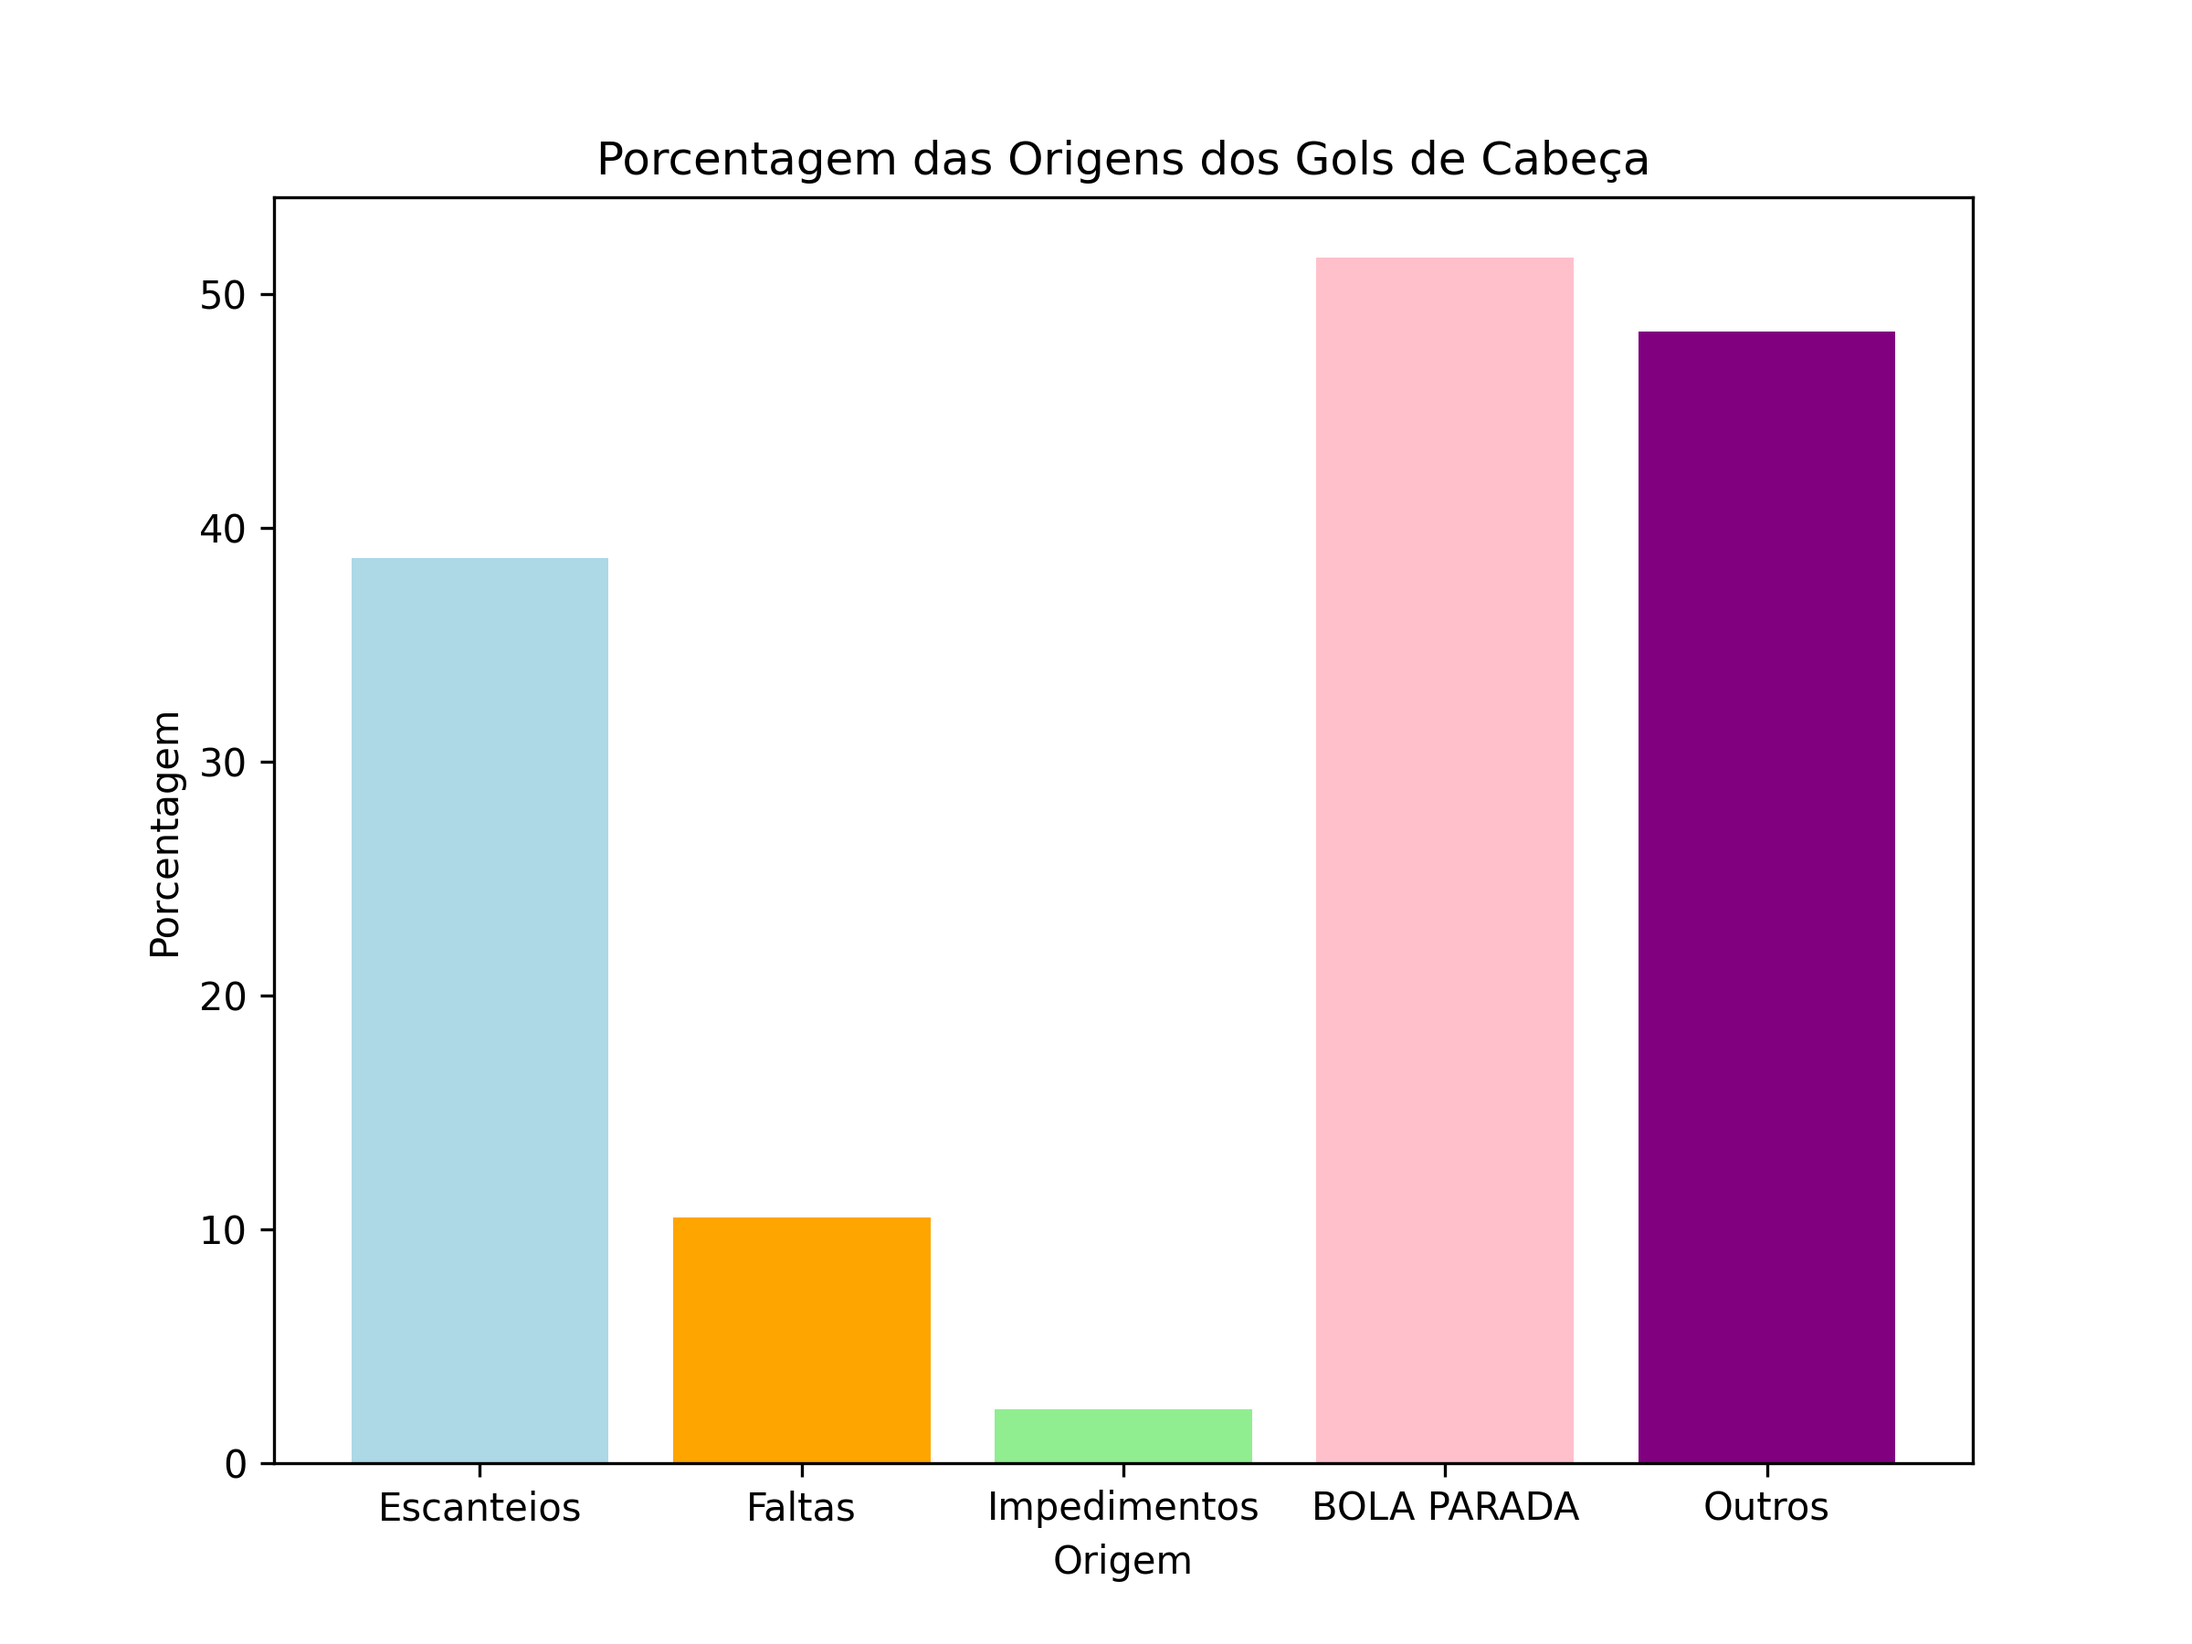
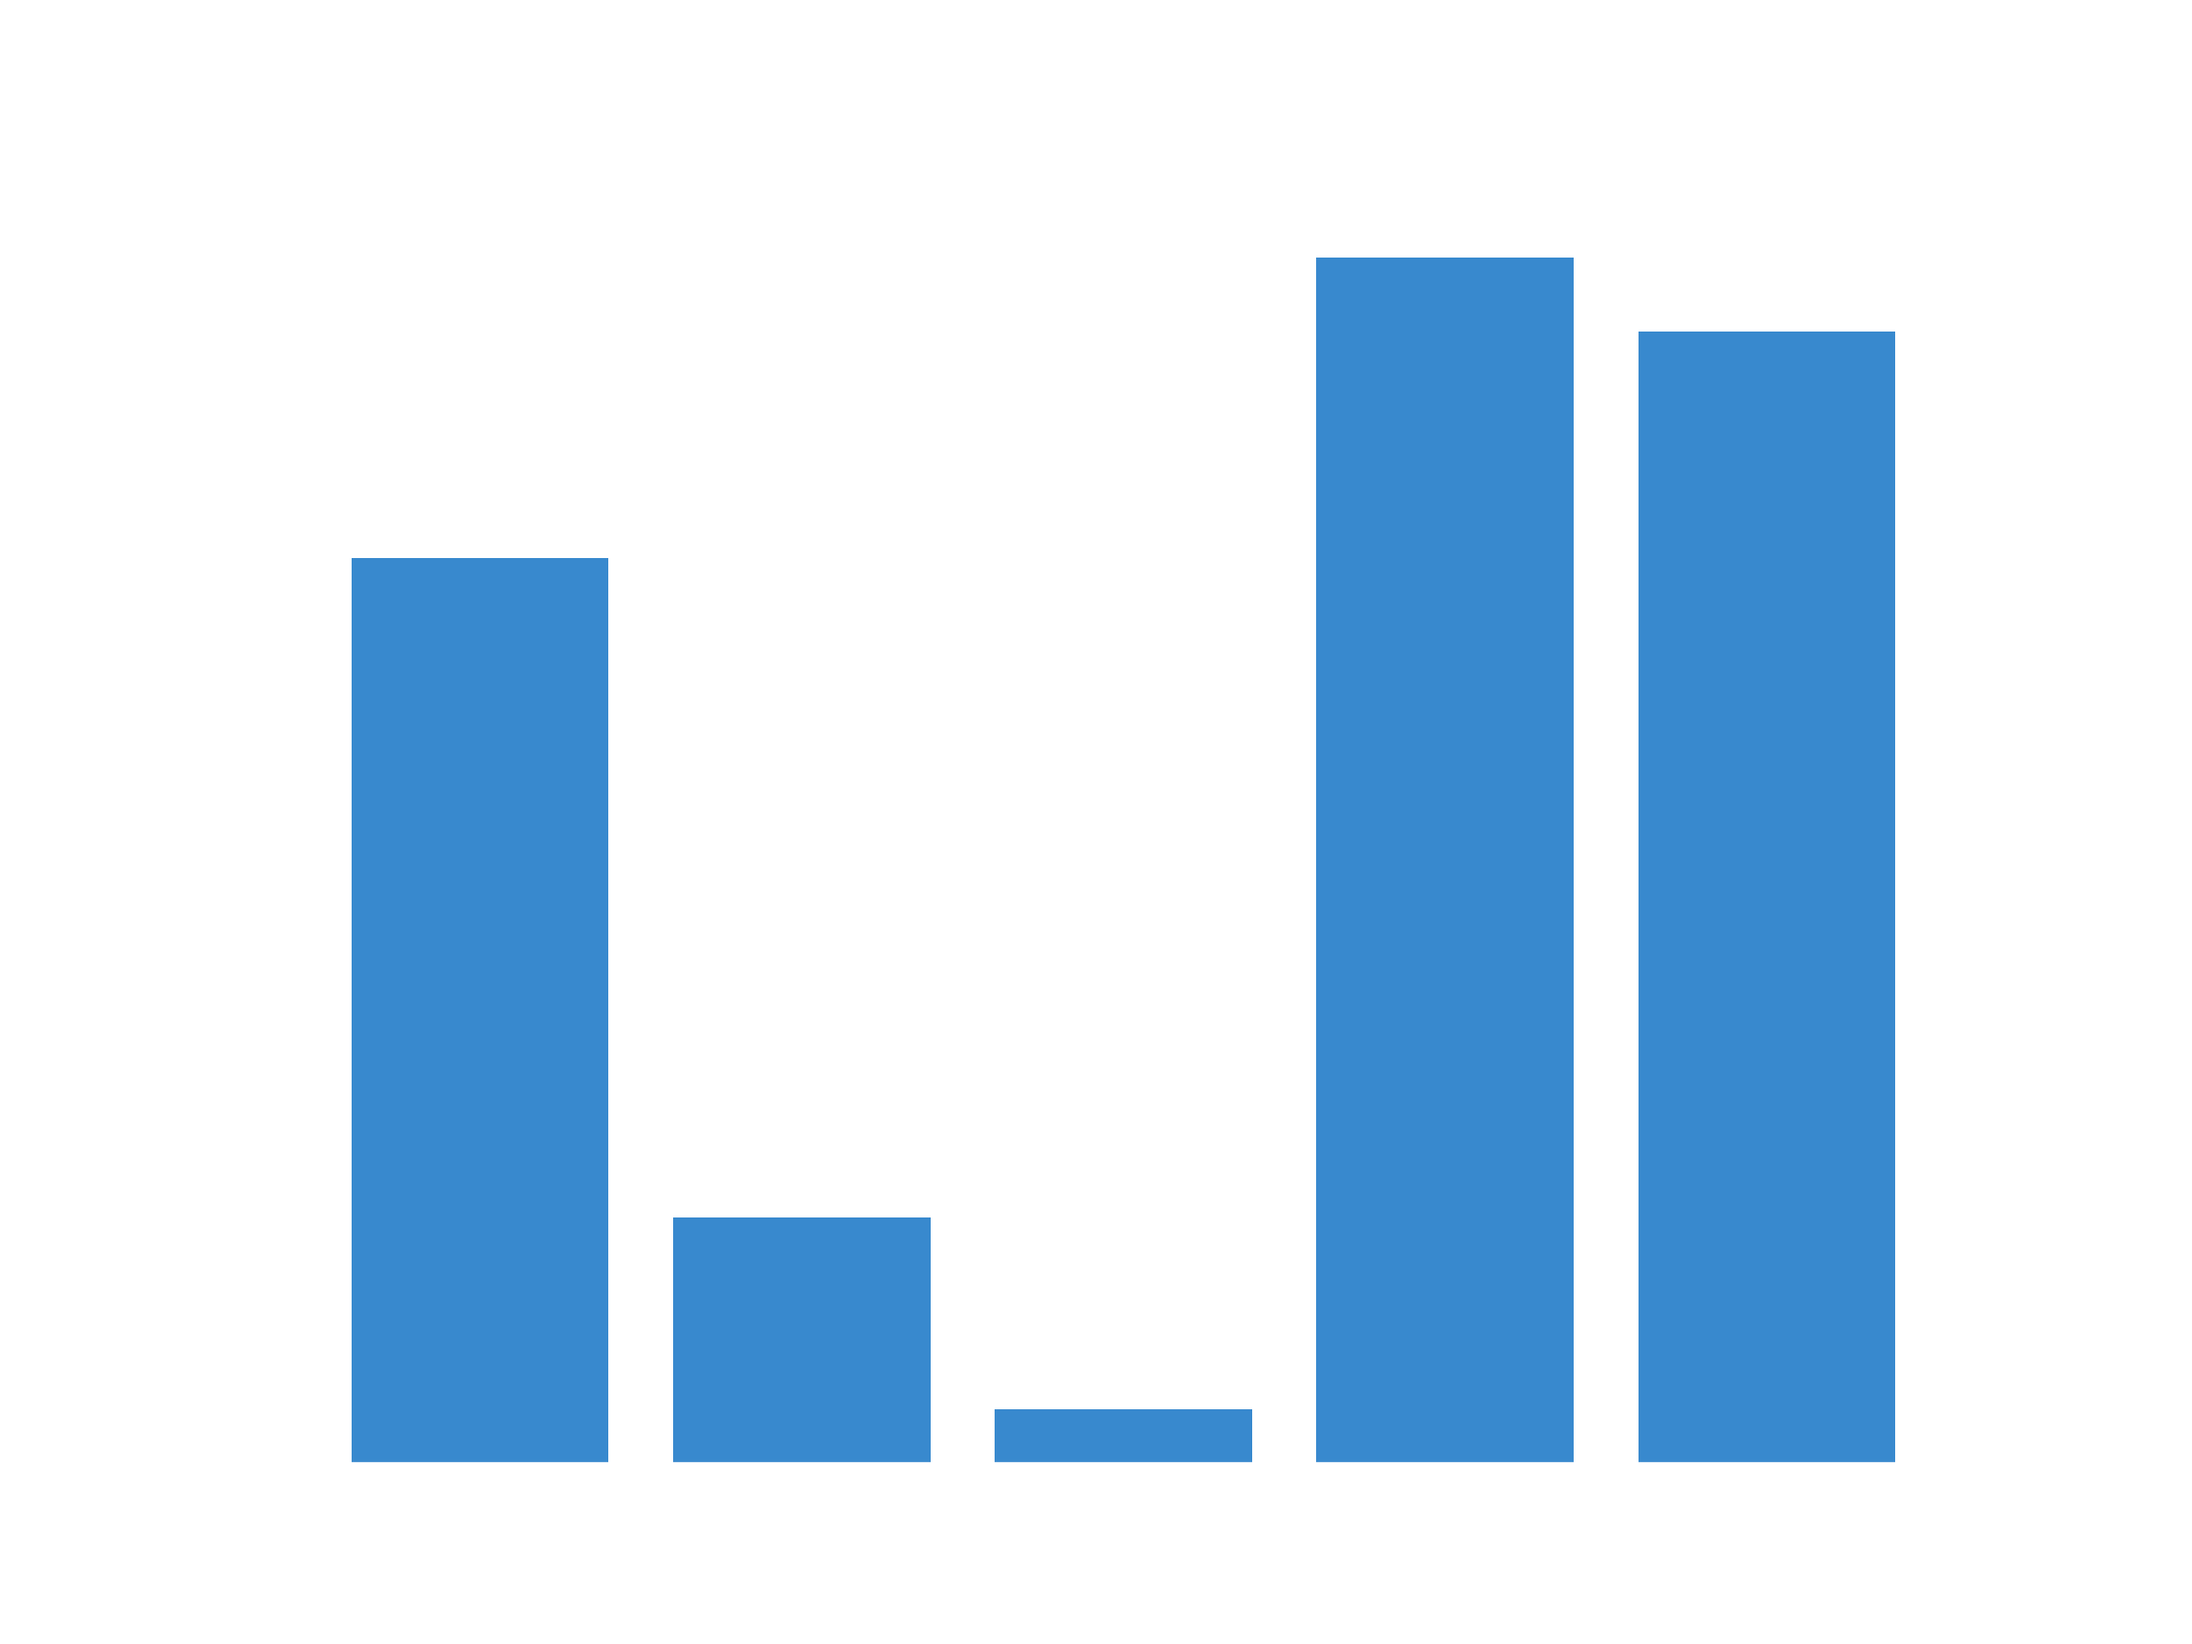
adding comments to test_head.py

diff --git a/tests/test_head.py b/tests/test_head.py
@@ -8,6 +8,7 @@ sys.path.append('../src')
 from head import (get_rows_with_previous, is_headed_goal, is_same_match,
                   origin_of_headed_goals)
 
+#Dataframes utilizados para os testesgi
 events_df = pd.DataFrame({
             'id_odsp': ['match1', 'match1', 'match1', 'match1', 'match2', 'match2',
                         'match2', 'match3', 'match3', 'match3'],
@@ -29,6 +30,8 @@ zero_headed_goals_df = pd.DataFrame({
 
 class TestGetRowsWithPrevious(unittest.TestCase):
     def test_get_rows_with_previous(self):
+        """Testa o funcionamento da função get_rows_with_previous.
+        """
         expected = pd.DataFrame({
             'id_odsp': ['match1', 'match1', 'match1', 'match2', 'match2', 'match3',
                         'match3'],
@@ -51,22 +54,33 @@ class TestGetRowsWithPrevious(unittest.TestCase):
         pd.testing.assert_frame_equal(result, expected)
 
     def test_invalid_input_df_type(self):
+        """Testa o funcionamento da função get_rows_with_previous ao receber um parâmetro
+        do tipo errado para o df.
+        """
         self.assertRaises(TypeError, get_rows_with_previous, 'events',
                           {'bodypart': 3})
         
     def test_invalid_condition_type(self):
+        """Testa o funcionamento da função get_rows_with_previous ao receber um parâmetro
+        do tipo errado para as condições.
+        """
         self.assertRaises(TypeError, get_rows_with_previous,
                           (events_df.copy(), 'bodypart'))
         self.assertRaises(TypeError, get_rows_with_previous,
                           (events_df.copy(), 3))
         
     def test_non_existing_columns(self):
+        """Testa o funcionamento da função get_rows_with_previous ao receber uma condição
+        relacionada a uma coluna que não existe.
+        """
         self.assertRaises(KeyError, get_rows_with_previous, events_df,
                           {'side': 1})
         
 
 class TestIsHeadedGoal(unittest.TestCase):
     def test_is_headed_goal(self):
+        """Testa o funcionamento da função is_headed_goal.
+        """
         expected = True
         result = is_headed_goal(events_df, 6)
         self.assertEqual(result, expected)
@@ -76,17 +90,28 @@ class TestIsHeadedGoal(unittest.TestCase):
         self.assertEqual(result, expected)
 
     def test_invalid_input_df_type(self):
+        """Testa o funcionamento da função is_headed_goal ao receber um parâmetro
+        do tipo errado para o df.
+        """
         self.assertRaises(TypeError, is_headed_goal, 'events', 3)
 
     def test_invalid_input_index_type(self):
+        """Testa o funcionamento da função is_headed_goal ao receber um parâmetro
+        do tipo errado para o índice.
+        """
         self.assertRaises(TypeError, is_headed_goal, events_df, '3')
 
     def test_non_existing_index(self):
+        """Testa o funcionamento da função is_headed_goal ao receber um índice
+        que não existe.
+        """
         self.assertRaises(KeyError, is_headed_goal, events_df, 10)
 
 
 class TestIsSameMatch(unittest.TestCase):
     def test_is_same_match(self):
+        """Testa o funcionamento da função is_same_match.
+        """
         excepted = True
         result = is_same_match(events_df, 0, 2)
         self.assertEqual(result, excepted)
@@ -96,19 +121,30 @@ class TestIsSameMatch(unittest.TestCase):
         self.assertEqual(result, excepted)
 
     def test_invalid_input_df_type(self):
+        """Testa o funcionamento da função is_same_match ao receber um parâmetro
+        do tipo errado para o df.
+        """
         self.assertRaises(TypeError, is_same_match, 'events', 0, 2)
 
     def test_invalid_input_index_type(self):
+        """Testa o funcionamento da função is_same_match ao receber um parâmetro
+        do tipo errado para os índices.
+        """
         self.assertRaises(TypeError, is_same_match, events_df, '0', 2)
         self.assertRaises(TypeError, is_same_match, events_df, 0, '2')
 
     def test_non_existing_index(self):
+        """Testa o funcionamento da função is_same_match ao receber um índice
+        que não existe.
+        """
         self.assertRaises(KeyError, is_same_match, events_df, 10, 2)
         self.assertRaises(KeyError, is_same_match, events_df, 0, 10)
 
 
 class TestOriginOfHeadedGoals(unittest.TestCase):
     def test_origin_of_headed_goals(self):
+        """Testa o funcionamento da função origin_of_headed_goals.
+        """
         expected = pd.DataFrame({
                 'ORIGEM': ['Escanteios', 'Faltas', 'Impedimentos', 'BOLA PARADA',
                            'Outros'],
@@ -118,6 +154,9 @@ class TestOriginOfHeadedGoals(unittest.TestCase):
         pd.testing.assert_frame_equal(result, expected)
 
     def test_zero_headed_goals(self):
+        """Testa o funcionamento da função origin_of_headed_goals ao receber um
+        df em que não há gols de cabeça.
+        """
         expected = pd.DataFrame({
                 '': ['Sem gols de cabeça']
             })
@@ -125,6 +164,9 @@ class TestOriginOfHeadedGoals(unittest.TestCase):
         pd.testing.assert_frame_equal(result, expected)    
 
     def test_invalid_input_df(self):
+        """Testa o funcionamento da função origin_of_headed_goals ao receber um
+        parâmetro do tipo errado para o df.
+        """
         self.assertRaises(TypeError, origin_of_headed_goals, 'events')
 
 

diff --git a/src/head.py b/src/head.py
@@ -131,18 +131,28 @@ def graph_view(df: pd.DataFrame) -> None:
     """
     plt.figure(figsize=(8, 6))
     plt.bar(df['ORIGEM'], df['PORCENTAGEM'],
-            color=['lightblue', 'orange', 'lightgreen', 'pink', 'purple'])
+            color=['#3889ce', '#3889ce', '#3889ce', '#3889ce', '#3889ce'])
     
-    plt.title('Porcentagem das Origens dos Gols de Cabeça')
-    plt.xlabel('Origem')
-    plt.ylabel('Porcentagem')
+    plt.title('Porcentagem das Origens dos Gols de Cabeça', color='white')
+    plt.xlabel('Origem', color='white')
+    plt.ylabel('Porcentagem', color='white')
 
-    plt.savefig('graph_head.png',format='png', dpi=300)
+    ax = plt.gca()
+    ax.spines['bottom'].set_color('white')
+    ax.spines['left'].set_color('white')
+    ax.spines['top'].set_color('white')
+    ax.spines['right'].set_color('white')
+
+ 
+    ax.tick_params(axis='x', colors='white')
+    ax.tick_params(axis='y', colors='white')
+    
+    plt.savefig('graph_head.png', format='png', dpi=300, transparent=True)
     plt.close()
 
 
 def main():
-    filepath = "../data/cleaned_events.csv"
+    filepath = "../data/events.csv"
     df = pd.read_csv(filepath)
 
     remove_columns(df, ['side', 'shot_outcome', 'location'])
